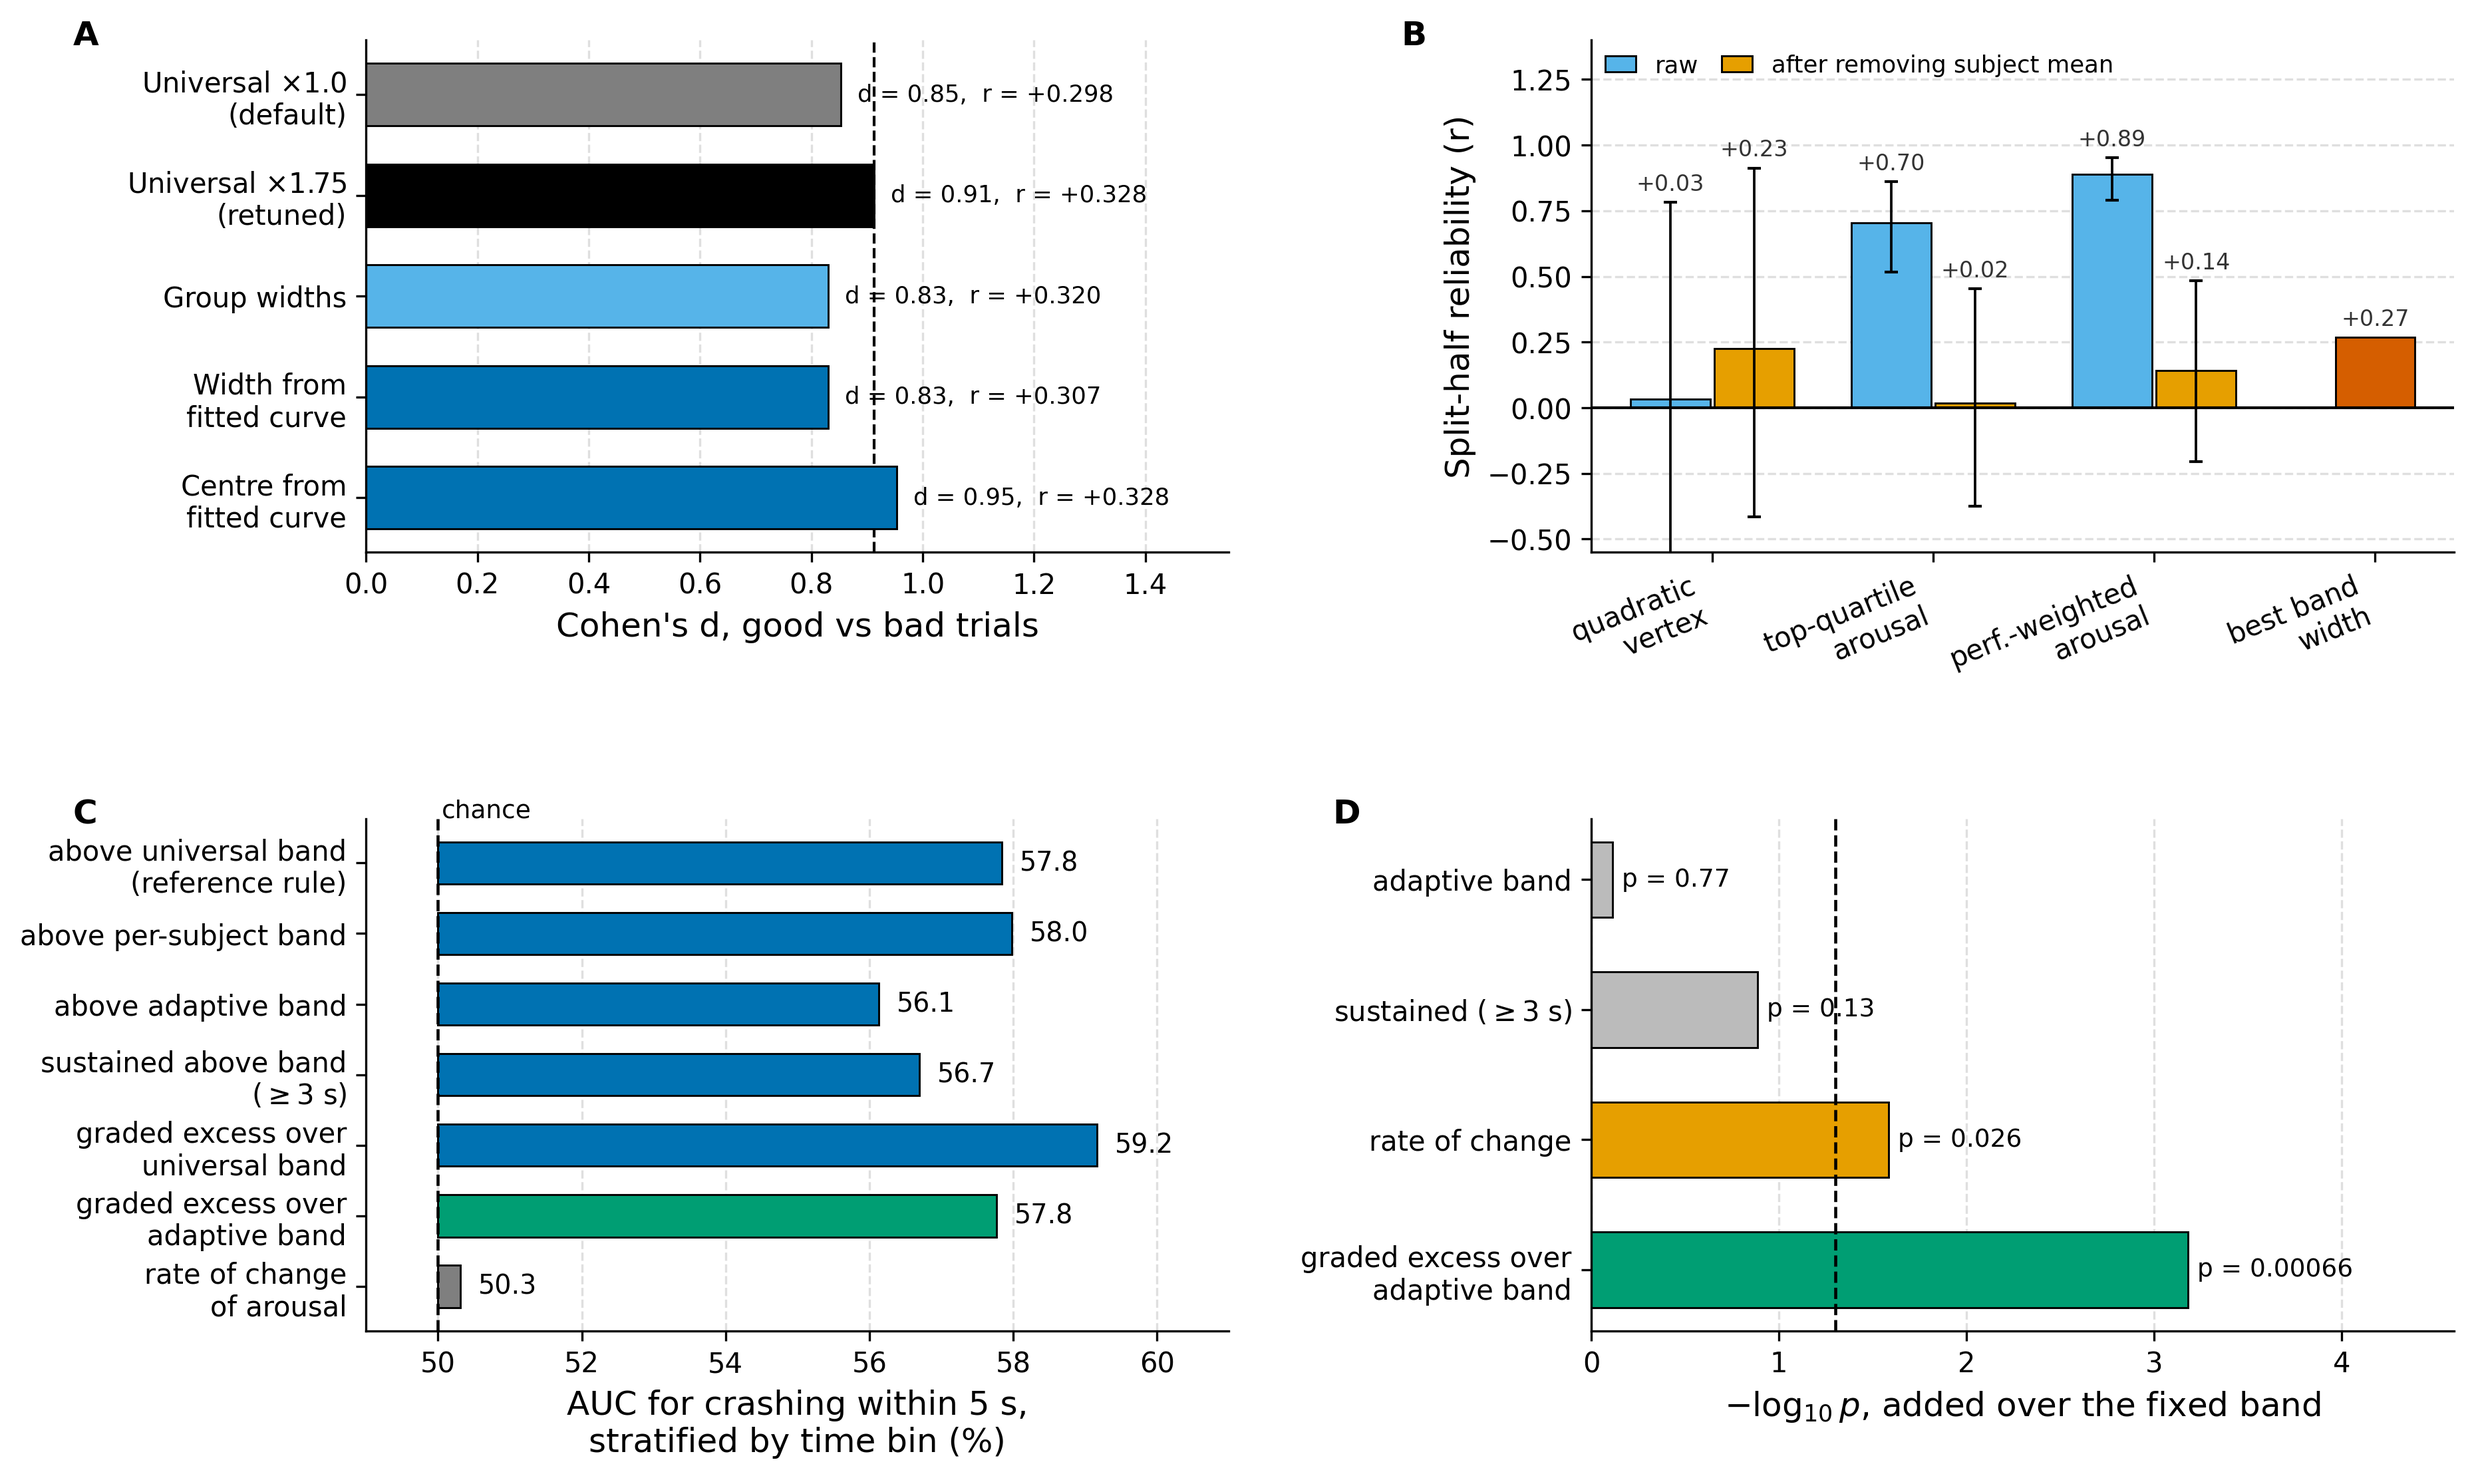
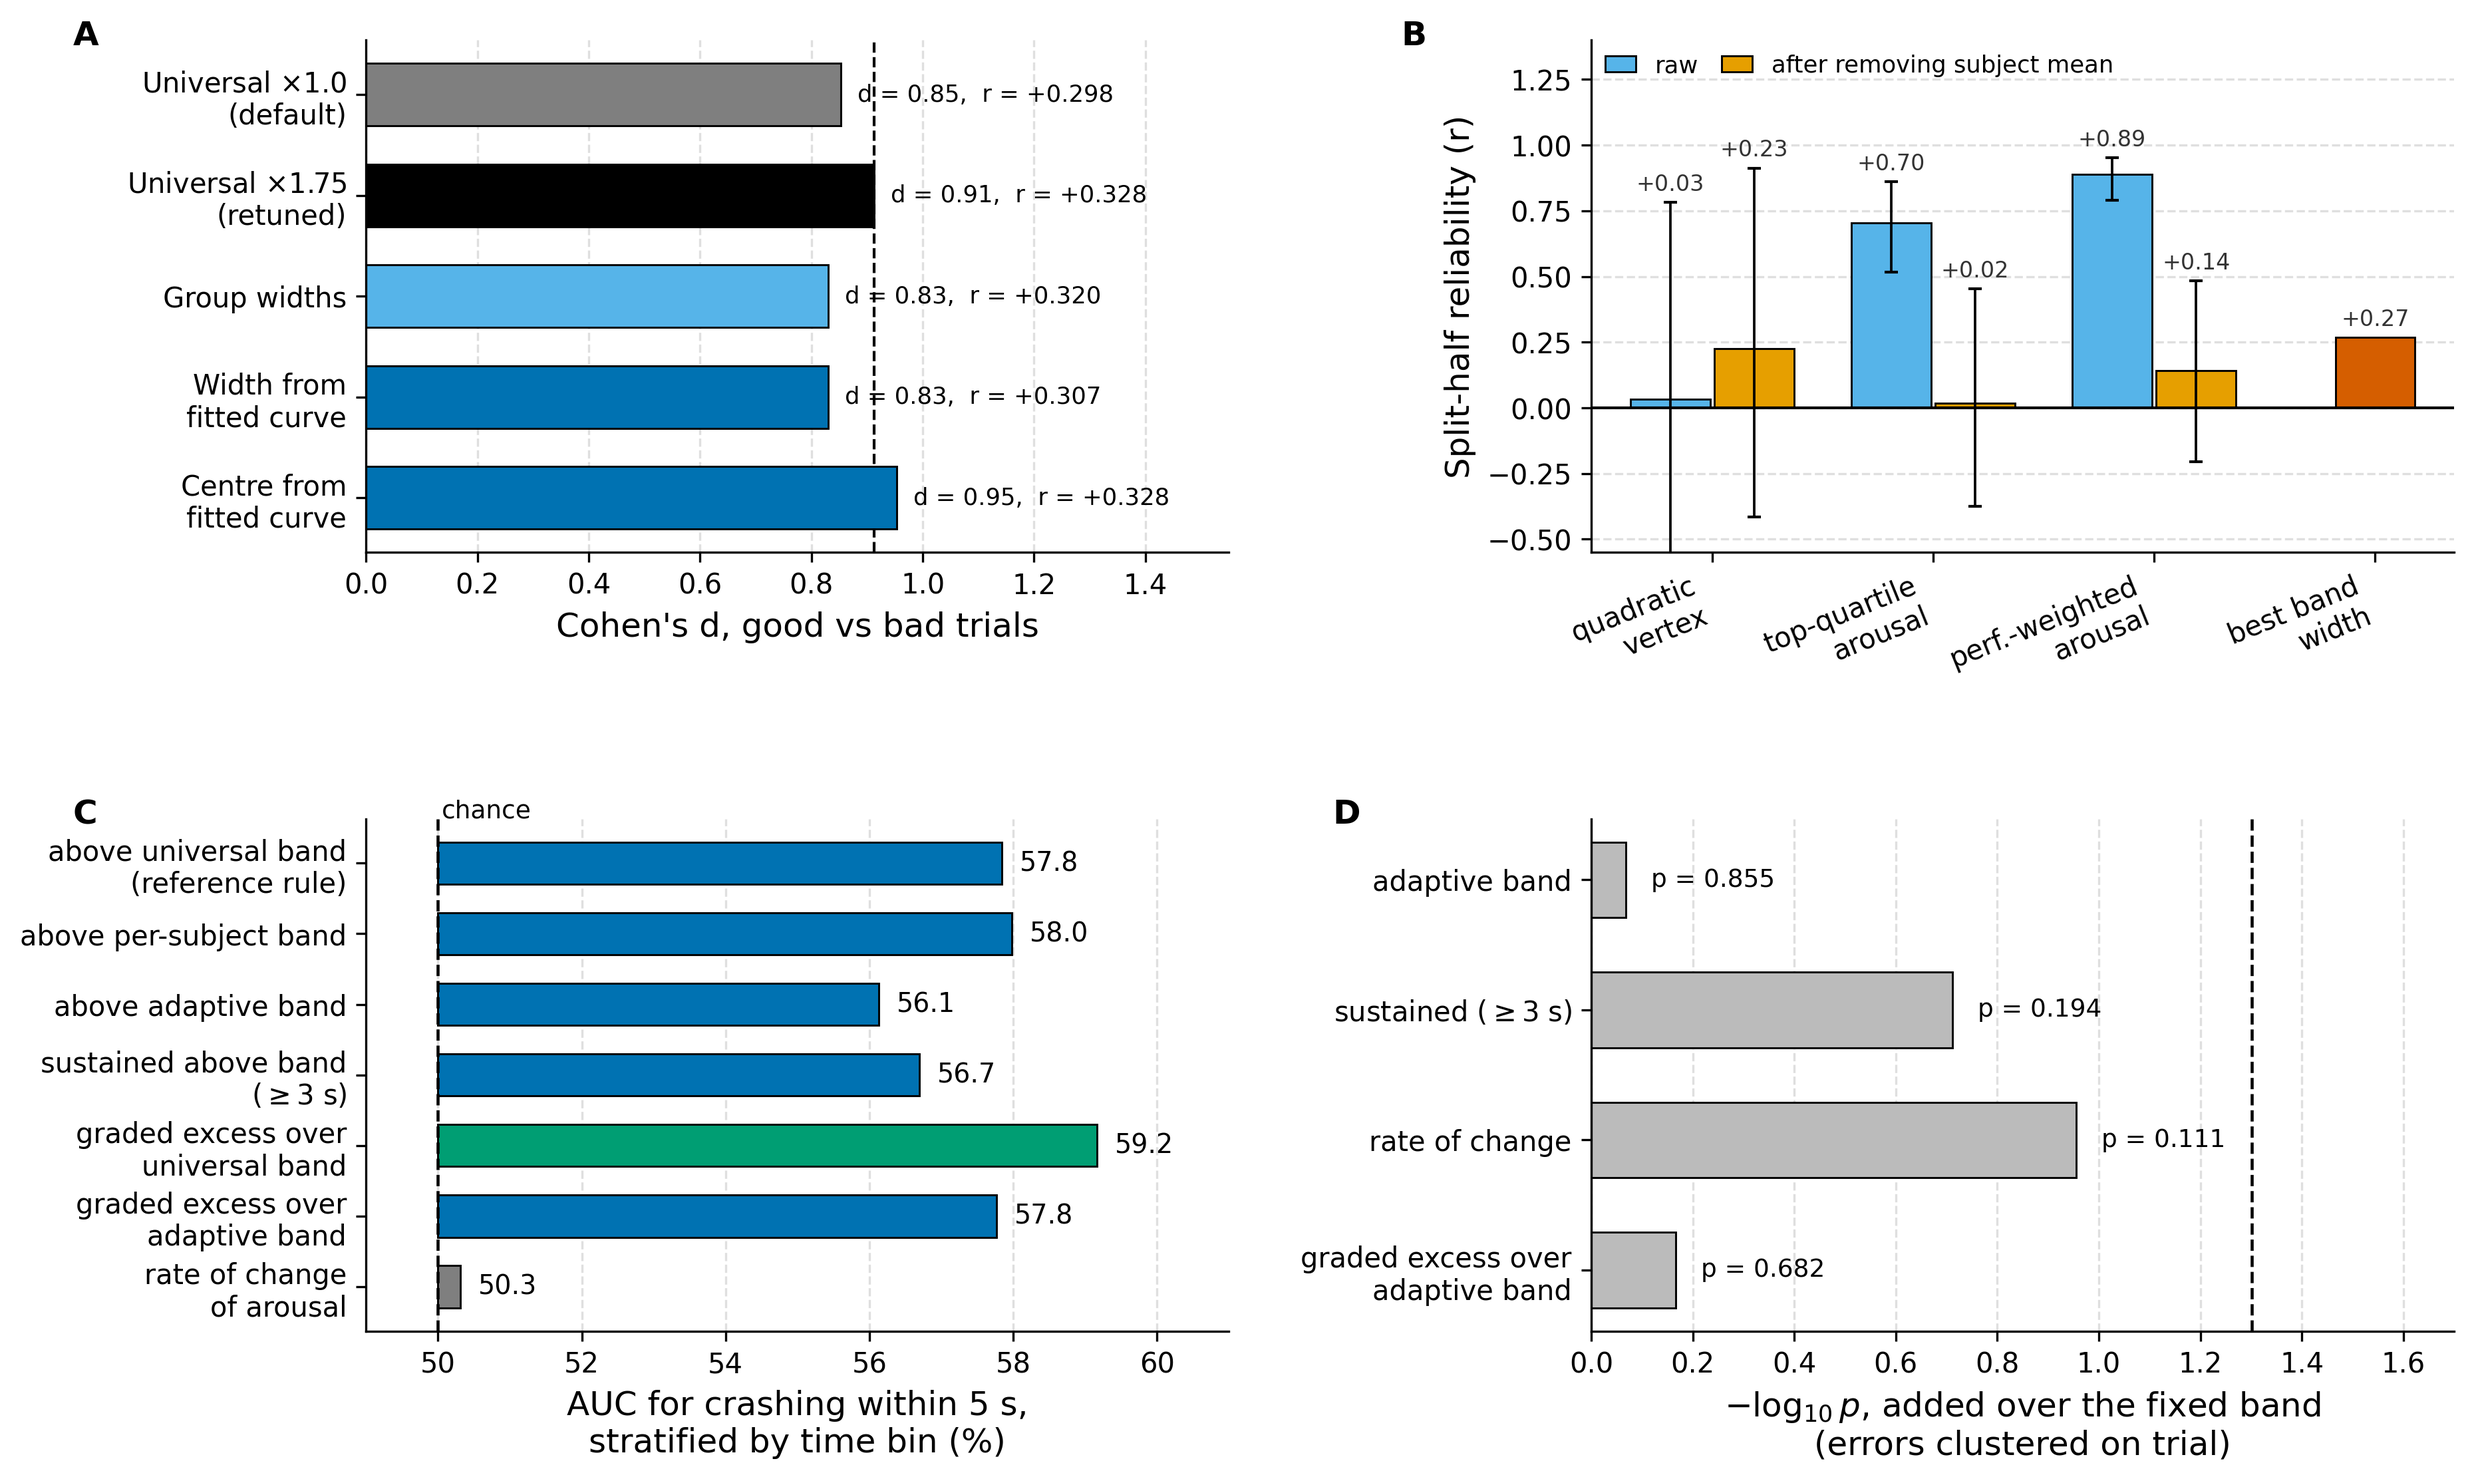
Redraw figure 7 panels C and D from the clustered refits
Panel D reported the linear probability p-values, under which the graded excess
over an adaptively referenced band was the only candidate adding information
over the fixed rule. With errors clustered on trial none of the four does, so
the panel now reads from hazard_glmm_bandcompare.csv. Panel C marks the graded
excess over the universal band, which discriminates best and is the signal that
survives. The added-information tests are now reported under the published
outcome with clustered errors as well as on 5 s blocks.

diff --git a/analyses/hazard_glmm.py b/analyses/hazard_glmm.py
@@ -408,7 +408,8 @@ def part_c(h, B):
                          p=m2.pvalues[c]))
 
     print("\n  does each parameter add information over the fixed rule?")
-    print(f"    {'parameter':<20}{'on top of':<16}{'published':>13}{'5 s blocks':>13}")
+    print(f"    {'parameter':<20}{'on top of':<14}{'published':>12}"
+          f"{'GEE on trial':>14}{'5 s blocks':>13}")
     for extra, base in [("above_adaptive", "above"), ("sustained", "above"),
                         ("rate", "above"), ("excess_adaptive", "excess_fixed")]:
         f1 = smf.mixedlm(f"crash5 ~ {base} + {extra} + C(tb)", h,
@@ -416,11 +417,16 @@ def part_c(h, B):
         f0 = smf.mixedlm(f"crash5 ~ {base} + C(tb)", h,
                          groups=h.subject).fit(reml=False)
         p_pub = chi2.sf(max(2 * (f1.llf - f0.llf), 0), 1)
+        # Primary: the published outcome and bins, errors clustered on trial.
+        g1 = sm.GEE.from_formula(f"crash5 ~ {base} + {extra} + C(tb)",
+                                 groups=h["trial"], data=h, family=LOGIT,
+                                 cov_struct=sm.cov_struct.Exchangeable()).fit()
         m2 = gee(f"event ~ {base} + {extra} + C(strat)", B)
-        print(f"    {extra:<20}{base:<16}{p_pub:>13.2e}{m2.pvalues[extra]:>13.4f}")
-        rows.append(dict(model=f"{extra} added over {base}, 5 s blocks",
-                         beta=m2.params[extra], p=m2.pvalues[extra],
-                         p_published=p_pub))
+        print(f"    {extra:<20}{base:<14}{p_pub:>12.2e}"
+              f"{g1.pvalues[extra]:>14.4f}{m2.pvalues[extra]:>13.4f}")
+        rows.append(dict(model=f"{extra} added over {base}",
+                         beta=g1.params[extra], p=g1.pvalues[extra],
+                         p_blocks=m2.pvalues[extra], p_published=p_pub))
 
     pd.DataFrame(rows).to_csv(OUT / "hazard_glmm_bandcompare.csv", index=False)
     return pd.DataFrame(rows)

diff --git a/scripts/make_figures.py b/scripts/make_figures.py
@@ -911,7 +911,7 @@ def figure_7():
         if k not in p.index:
             continue
         row = p.loc[k]
-        col = GREEN if "adaptive band (graded)" in k.lower() else (
+        col = GREEN if k == "excess over universal band (graded)" else (
             GREY if "rate" in k.lower() else BLUE)
         ax.barh(y, row.auc - 50, left=50, height=0.6, color=col,
                 edgecolor="black", linewidth=0.7, zorder=2)
@@ -927,8 +927,14 @@ def figure_7():
 
     # -- D: does it add over the fixed rule? ---------------------------------
     ax = fig.add_subplot(gs[1, 1])
-    added = [("adaptive band", 0.77), ("sustained ($\\geq$3 s)", 0.13),
-             ("rate of change", 0.026), ("graded excess over\nadaptive band", 6.6e-4)]
+    bc = pd.read_csv(RES / "hazard_glmm_bandcompare.csv")
+    bc = bc[bc.model.str.contains("added over", na=False)].set_index("model")
+    label = {"above_adaptive added over above": "adaptive band",
+             "sustained added over above": "sustained ($\\geq$3 s)",
+             "rate added over above": "rate of change",
+             "excess_adaptive added over excess_fixed":
+                 "graded excess over\nadaptive band"}
+    added = [(label[k], float(bc.loc[k, "p"])) for k in label if k in bc.index]
     ys = np.arange(len(added))[::-1]
     for y, (lab, pv) in zip(ys, added):
         col = GREEN if pv < 0.01 else (ORANGE if pv < 0.05 else "#BBBBBB")
@@ -938,8 +944,9 @@ def figure_7():
     ax.axvline(-np.log10(0.05), color=BLACK, ls="--", lw=1.1)
     ax.set_yticks(ys)
     ax.set_yticklabels([a[0] for a in added], fontsize=9)
-    ax.set_xlabel(r"$-\log_{10} p$, added over the fixed band")
-    ax.set_xlim(0, 4.6)
+    ax.set_xlabel(r"$-\log_{10} p$, added over the fixed band"
+                  "\n(errors clustered on trial)")
+    ax.set_xlim(0, 1.7)
     tidy(ax, grid_axis="x")
     panel(ax, "D", x=-0.30)
 
